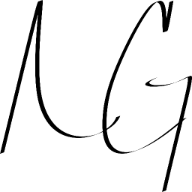
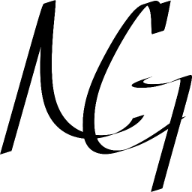
Added App Functionality
Added JS logic to the Web app

Changed region(s): [[0.0, 0.0, 1.0, 1.0], [0.625, 0.5938, 0.75, 0.6875]]

diff --git a/app.html b/app.html
@@ -2,7 +2,7 @@
 <html lang="en" class="h-100">
 
 <head>
-    <title>App Name: A Coding Project By Nicholas Guinther</title>
+    <title>Even Hundred: A Coding Project By Nicholas Guinther</title>
     <!-- Required meta tags -->
     <meta charset="utf-8">
     <meta name="viewport" content="width=device-width, initial-scale=1, shrink-to-fit=no">
@@ -21,7 +21,7 @@
 
 <nav class="navbar navbar-expand-md navbar-dark fixed-top">
     <div class="container-fluid">
-        <a class="navbar-brand" href="#"><img src="img/NG symbol_white font.png" height="24" class="d-inline-block align-text-top"></a>
+        <a class="navbar-brand" href="/index.html"><img src="img/NG symbol_bold_white.png" height="38" class="d-inline-block align-text-top"></a>
         <button class="navbar-toggler" type="button" data-bs-toggle="collapse" data-bs-target="#navbarCollapse"
             aria-controls="navbarCollapse" aria-expanded="false" aria-label="Toggle navigation">
             <span class="navbar-toggler-icon"></span>
@@ -49,8 +49,43 @@
 </nav>
 
 <main class="flex-shrink-0">
-    <div class="container">
-
+    <div class="container mt-5">
+        <div class="row row-cols-1 row-cols-lg-2">
+            <div class="col border-end border-2">
+                <h1>Even Hundred: A Coding Project</h1>
+                <h4 class="lead">A JavaScript coding exercise using loops. Write a JavaScript program that displays the numbers from 0 to 100.
+                    Display the even numbers in <strong>Bold.</strong>
+                </h4>
+                <h2 class="mt-5 border-bottom border-2">Instructions</h2>
+                <p>Enter a starting value and a ending value. Press the button and the values will appear.</p>
+            </div>
+            <div class="col">
+                <div>
+                    <h5>Enter Values</h5>
+                    <form class="row gy-2 gx-3">
+                        <div class="col">
+                            <input id="startValue" type="number" class="form-control" placeholder="Start Value" 
+                                value=0 aria-label="Start Value">
+                        </div>
+                        <div class="col">
+                            <input id="endValue" type="number" class="form-control" placeholder="End Value" 
+                                value=100 aria-label="End Value">
+                        </div>
+                        <div class="col-12 d-flex justify-content-end">
+                            <button id="btnSubmit" type="button" class="btn btn-dark btn-large">Display the Numbers</button>
+                        </div>
+                    </form>
+                    <h2 class="mt-5 border-bottom border-2">Results</h2>
+                    <div class="table-responsive">
+                        <table class="table table-striped table-sm">
+                            <tbody id="results">
+                                <!-- Results Go Here -->
+                            </tbody>
+                        </table>
+                    </div>
+                </div>
+            </div>
+        </div>
     </div>
 </main>
 
@@ -78,6 +113,9 @@
     integrity="sha384-/bQdsTh/da6pkI1MST/rWKFNjaCP5gBSY4sEBT38Q/9RBh9AH40zEOg7Hlq2THRZ" crossorigin="anonymous">
 </script>
 <script src="js/site.js"></script>
+<script>
+    document.getElementById("btnSubmit").addEventListener("click", getValues);
+</script>
 </body>
 
 </html>

diff --git a/index.html b/index.html
@@ -2,7 +2,7 @@
 <html lang="en" class="h-100">
 
 <head>
-    <title>App Name: A Coding Project By Nicholas Guinther</title>
+    <title>Even Hundred: A Coding Project By Nicholas Guinther</title>
     <!-- Required meta tags -->
     <meta charset="utf-8">
     <meta name="viewport" content="width=device-width, initial-scale=1, shrink-to-fit=no">
@@ -21,7 +21,7 @@
 
 <nav class="navbar navbar-expand-md navbar-dark fixed-top">
     <div class="container-fluid">
-        <a class="navbar-brand" href="#"><img src="img/NG symbol_white font.png" height="24" class="d-inline-block align-text-top"></a>
+        <a class="navbar-brand" href="/index.html"><img src="img/NG symbol_bold_white.png" height="38" class="d-inline-block align-text-top"></a>
         <button class="navbar-toggler" type="button" data-bs-toggle="collapse" data-bs-target="#navbarCollapse"
             aria-controls="navbarCollapse" aria-expanded="false" aria-label="Toggle navigation">
             <span class="navbar-toggler-icon"></span>
@@ -38,7 +38,7 @@
                     <a class="nav-link" href="/code.html">The Code</a>
                 </li>
                 <li class="nav-item">
-                    <a class="nav-link" target="_blank" href="#">Git Repo</a>
+                    <a class="nav-link" target="_blank" href="https://github.com/nicholas-guinther/ZeroToOne-hundred">Git Repo</a>
                 </li>
                 <li class="nav-item">
                     <a class="nav-link" target="_blank" href="https://www.nicholasguinther.com/">About</a>
@@ -52,7 +52,7 @@
        <div class="container col-xxl-8 px-4 py-5">
            <div class="row g-5 py-5 row-cols-1 row-cols-lg-2">
                <div class="col order-last order-lg-first">
-                   <h1 class="display-5 fw-bold lh-1 mb-3">APP NAME: A Coding Project</h1>
+                   <h1 class="display-5 fw-bold lh-1 mb-3">Even Hundred: A Coding Project</h1>
                    <h4 class="lead">A JavaScript coding exercise using loops. Write a JavaScript program that displays the numbers from 0 to 100.
                        Display the even numbers in <strong>Bold.</strong>
                    </h4>

diff --git a/js/site.js b/js/site.js
@@ -1,4 +1,64 @@
-// Call HelloWorld
-function HelloWorld(){
-    alert("Hello World!");
+// get the values from the UI
+// starts or controller function
+function getValues(){
+    // get values from the page
+    let startValue = document.getElementById("startValue").value;
+    let endValue = document.getElementById("endValue").value;
+    let numbers = [];
+
+    // attempt to parse into integers
+    startValue = parseInt(startValue);
+    endValue = parseInt(endValue);
+
+    if (Number.isInteger(startValue) && Number.isInteger(endValue)) {
+        // call generateNumbers
+        let numbers = generateNumbers(startValue, endValue);
+        // call displayNumbers
+        displayNumbers(numbers);
+    } else {
+        
+        alert("You must enter integers");
+        }
+
+}
+
+// generate numbers from startValue to the endValue
+// logic functions
+function generateNumbers(startValue, endValue){
+
+    let numbers = [];
+
+    // get all numbers from start to end
+    for (let index = startValue; index <= endValue; index++) {
+        numbers.push(index);
+        
+    }
+
+    return numbers;
+}
+
+// display the numbers and mark the even numbers bold
+// display or view functions
+function displayNumbers(numbers){
+
+    let templateRows = "";
+    let className = "even"
+
+    for (let index = 0; index < numbers.length; index++) {
+
+        let number = numbers[index];
+
+        if (number % 2 == 0){
+
+            className = "even";
+
+        } else {
+
+            className = "odd";
+        }
+        
+        templateRows += `<tr><td class="${className}">${number}</td></tr>`;
+    }
+
+    document.getElementById("results").innerHTML = templateRows;
 }

diff --git a/code.html b/code.html
@@ -2,7 +2,7 @@
 <html lang="en" class="h-100">
 
 <head>
-    <title>App Name: A Coding Project By Nicholas Guinther</title>
+    <title>Even Hundred: A Coding Project By Nicholas Guinther</title>
     <!-- Required meta tags -->
     <meta charset="utf-8">
     <meta name="viewport" content="width=device-width, initial-scale=1, shrink-to-fit=no">
@@ -22,7 +22,7 @@
 
 <nav class="navbar navbar-expand-md navbar-dark fixed-top">
     <div class="container-fluid">
-        <a class="navbar-brand" href="#"><img src="img/NG symbol_white font.png" height="24" class="d-inline-block align-text-top"></a>
+        <a class="navbar-brand" href="/index.html"><img src="img/NG symbol_bold_white.png" height="38" class="d-inline-block align-text-top"></a>
         <button class="navbar-toggler" type="button" data-bs-toggle="collapse" data-bs-target="#navbarCollapse"
             aria-controls="navbarCollapse" aria-expanded="false" aria-label="Toggle navigation">
             <span class="navbar-toggler-icon"></span>
@@ -51,7 +51,7 @@
 
 <main class="flex-shrink-0">
     <div class="container py-4 px-5 mt-5">
-        <h2 class="border-1 border-bottom border-dark">The Code for APP NAME</h2>
+        <h2 class="border-1 border-bottom border-dark">The Code for Even Hundred</h2>
         <div class="row row-cols-1 row-cols-lg-2">
             <div class="col-lg-8">
                 <pre class="line-numbers">

diff --git a/css/site.css b/css/site.css
@@ -6,6 +6,14 @@
     --orange-color: orange;
 }
 
+.odd {
+    font-weight: 100;
+}
+
+.even {
+    font-weight: bold;
+}
+
 body{
     color:var(--dark-color);
 }

diff --git a/README.md b/README.md
@@ -1,2 +1,3 @@
-# jsSiteTemplate
-Site Template for JS Projects
+# Even Hundred: A Coding Project
+
+A JavaScript coding exercise using loops. Write a JavaScript program that displays the numbers from 0 to 100. Display the even numbers in Bold.
